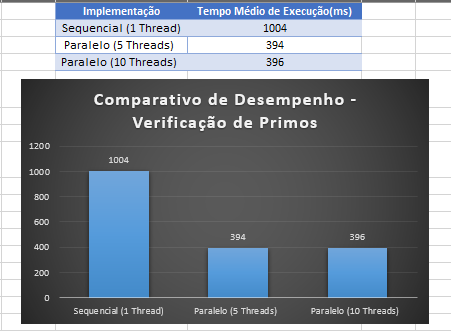
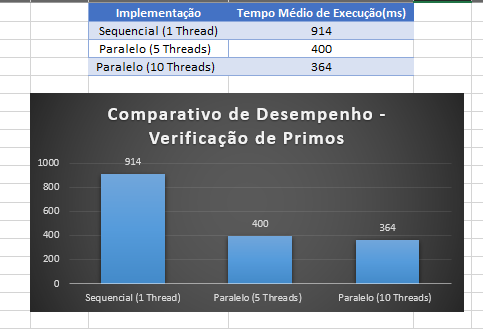
Commit final

Changed region(s): [[0.0, 0.0, 1.0, 1.0]]

diff --git a/README.md b/README.md
@@ -46,6 +46,8 @@ O projeto está organizado da seguinte forma:
 
   - `Analise_Desempenho.xlsx`: Planilha com a tabela de tempos e o gráfico comparativo.
 
+  - `executar_testes.bat`: Script de testes para rodar cada arquivo quantas vezes for necessário, somente inserindo no "for" a quantidade necessária para testes.
+
   - `README.md`: Este relatório.
 
 ## 3. Estratégia de Implementação
@@ -133,17 +135,17 @@ _Observação: Foi executado cada versão algumas vezes para obter uma média de
 
 | Implementação | Nº de Threads | Tempo Médio (ms) | Speedup                 |
 | ------------- | ------------- | ---------------- | ----------------------- |
-| Sequencial    | 1             | 1004             | -                       |
-| Paralelo      | 5             | 394              | Aprox. 2,55 mais rápido |
-| Paralelo      | 10            | 396              | Aprox. 2,54 mais rápido |
+| Sequencial    | 1             | 914,1            | -                       |
+| Paralelo      | 5             | 399,6            | Aprox. 2,29 mais rápido |
+| Paralelo      | 10            | 364,1            | Aprox. 2,51 mais rápido |
 
 _O **Speedup** é calculado como: (Tempo Sequencial) / (Tempo Paralelo)._
 
 Então:
 
-- 1004 / 394 = 2,55x
+- 914,1 / 399,6 = 2,29x
 
-- 1004 / 396 = 2,54x
+- 914,1 / 364,1 = 2,51x
 
 ![alt text](img/grafico_desempenho.png)
 
@@ -153,17 +155,17 @@ Então:
 
 A análise dos dados demonstra dois pontos principais:
 
-- **A paralelização resultou em um ganho de performance significativo**. A implementação sequencial levou em média **1004 ms**, enquanto a versão com 5 threads reduziu esse tempo para **394 ms**, um **speedup de 2,55 vezes**. Isso comprova que a estratégia de dividir o trabalho entre múltiplos processadores foi altamente eficaz.
+- **O Salto Inicial para o Paralelismo**: A transição da execução sequencial (914,1 ms) para a paralela com 5 threads (397,6 ms) gerou um ganho de performance expressivo, resultando em um **speedup de 2,30 vezes**. Isso comprova a eficácia da paralelização.
 
-- Observa-se um **platô de desempenho ao aumentar o número de threads de 5 para 10**. A versão com 10 threads teve um tempo médio de **396 ms**, ligeiramente superior à de 5 threads. Isso indica que simplesmente adicionar mais workers não garantiu uma melhoria, introduzindo, na verdade, uma pequena sobrecarga (overhead).
+- **Retornos Decrescentes com Mais Threads**: Ao dobrar o número de workers para 10 threads, o desempenho continuou a melhorar, atingindo uma média de **364,1 ms** e um **speedup de 2,51 vezes**. No entanto, é crucial notar que o ganho adicional foi muito menor que o salto inicial. Passar de 1 para 5 threads reduziu o tempo em mais de 500 ms, enquanto passar de 5 para 10 threads reduziu o tempo em apenas 33,5 ms. Este fenômeno é conhecido como **lei dos retornos decrescentes**.
 
 ## 7. Correlação com o Hardware de Teste
 
-A explicação para o platô de desempenho encontrado está diretamente ligada às especificações do hardware utilizado para os testes. O processador, um **Intel Core i7 8550U**, possui **4 núcleos físicos e 8 threads lógicas**. Isso significa que:
+A explicação para os retornos decrescentes está diretamente ligada às especificações do hardware. O processador, um **Intel Core i7 8550U**, possui **4 núcleos físicos e 8 threads lógicas**.
 
-- A versão com **5 threads** utilizou os recursos de hardware de forma muito eficiente, pois o sistema operacional pôde alocar cada thread para um dos 8 processadores lógicos disponíveis.
+- A versão com **5 threads** já consegue ocupar boa parte da capacidade de processamento paralelo do CPU.
 
-- A versão com **10 threads**, por outro lado, criou mais tarefas do que o processador consegue executar simultaneamente. Isso força o sistema a realizar **"trocas de contexto"** constantes para gerenciar as threads excedentes, gerando um custo operacional que anula e até reverte os potenciais ganhos.
+- A versão com **10 threads** excede o número de processadores lógicos disponíveis (8). Embora o sistema operacional consiga gerenciar essas threads e extrair um pouco mais de performance, ele o faz à custa de um aumento na sobrecarga (overhead) de troca de contexto, pois precisa revezar mais de uma thread em um mesmo núcleo lógico. Isso explica por que o ganho de desempenho foi pequeno e não linear.
 
 Informações do Hardware testado (meu notebook pessoal):
 
@@ -171,4 +173,4 @@ Informações do Hardware testado (meu notebook pessoal):
 
 ## 8. Conclusão
 
-Com essa análise, podemos comprovar que, embora a paralelização seja uma ferramenta poderosa para otimização, seu ganho é intrinsecamente limitado pela arquitetura do hardware. **Para este cenário, a configuração com 5 threads representou o ponto ótimo de desempenho, utilizando eficientemente os recursos do processador sem incorrer no custo de gerenciamento excessivo de threads**.
+A análise comprova que a paralelização é uma ferramenta poderosa, mas seus benefícios não escalam infinitamente. Existe um ponto ótimo que depende da arquitetura do hardware e da natureza da tarefa. Para este cenário, aumentar o número de threads de 5 para 10 trouxe uma melhoria marginal, demonstrando que a maior parte do ganho de performance já havia sido obtida ao utilizar um número de threads próximo à capacidade de paralelismo do processador.
